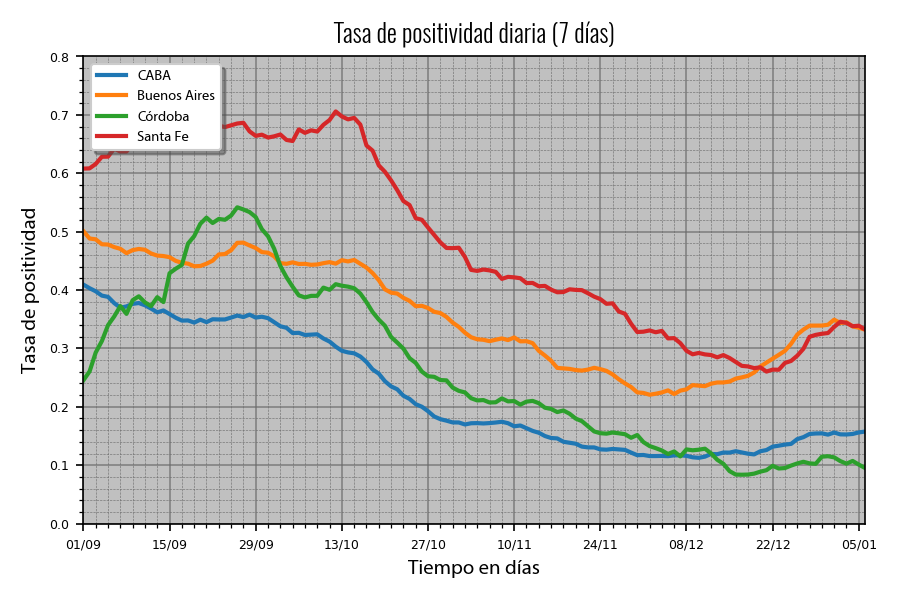
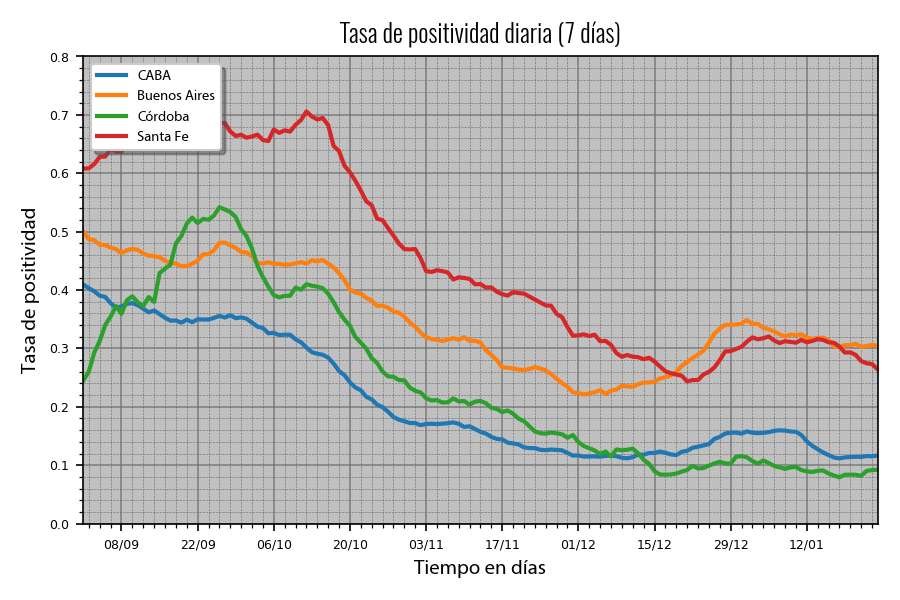
Updating testing charts...

Changed region(s): [[0.0622, 0.03, 0.9956, 0.96], [0.6222, 0.9, 0.6844, 0.93]]

diff --git a/COVID-19_DataGobAr_TestsAnalysis.py b/COVID-19_DataGobAr_TestsAnalysis.py
@@ -22,14 +22,14 @@ chartPath = "Argentina_Data/actual_charts/testing/"
 colorlist = ["orange", "tab:blue", "tab:red", "tab:green"]
 
 dataStartDate = "2020-02-11"
-dataEndDate = "2021-01-10"
+dataEndDate = "2021-01-29"
 wantedStartDate = "2020-09-01"
-wantedEndDate = "2021-01-06"
+wantedEndDate = "2021-01-25"
 dataPeriod = pd.date_range(dataStartDate, dataEndDate)
 plotScale = "linear"
 
 #Deciding language for titles and tags...
-lg = 0 # 0 for english, 1 for spanish
+lg = 1 # 0 for english, 1 for spanish
 ticksSizes = [1500, 250000, 0.1, 100000]
 
 #Deciding if you want to save and show charts...
